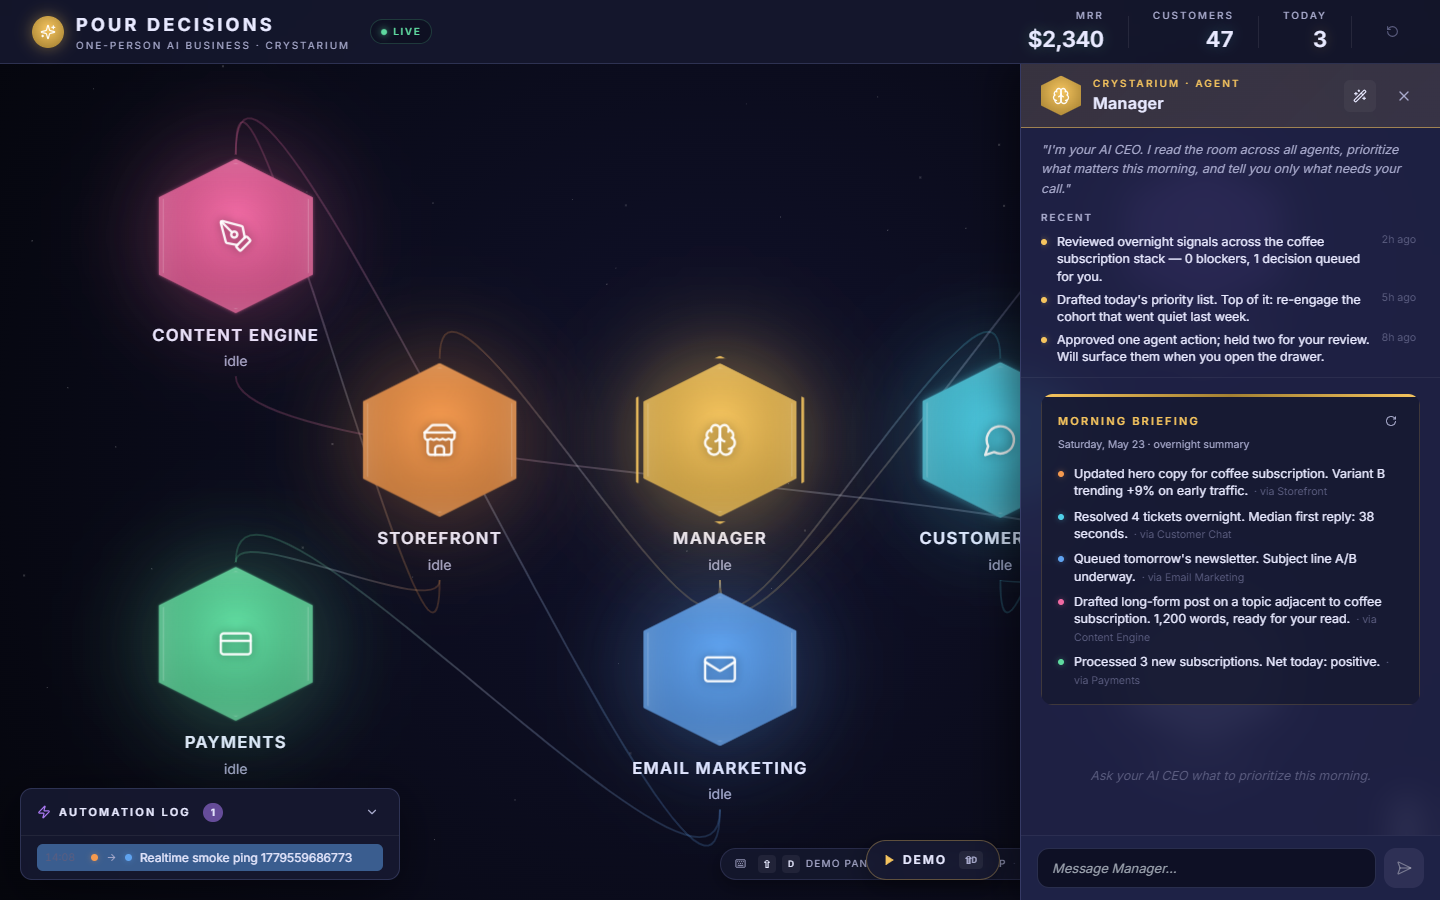
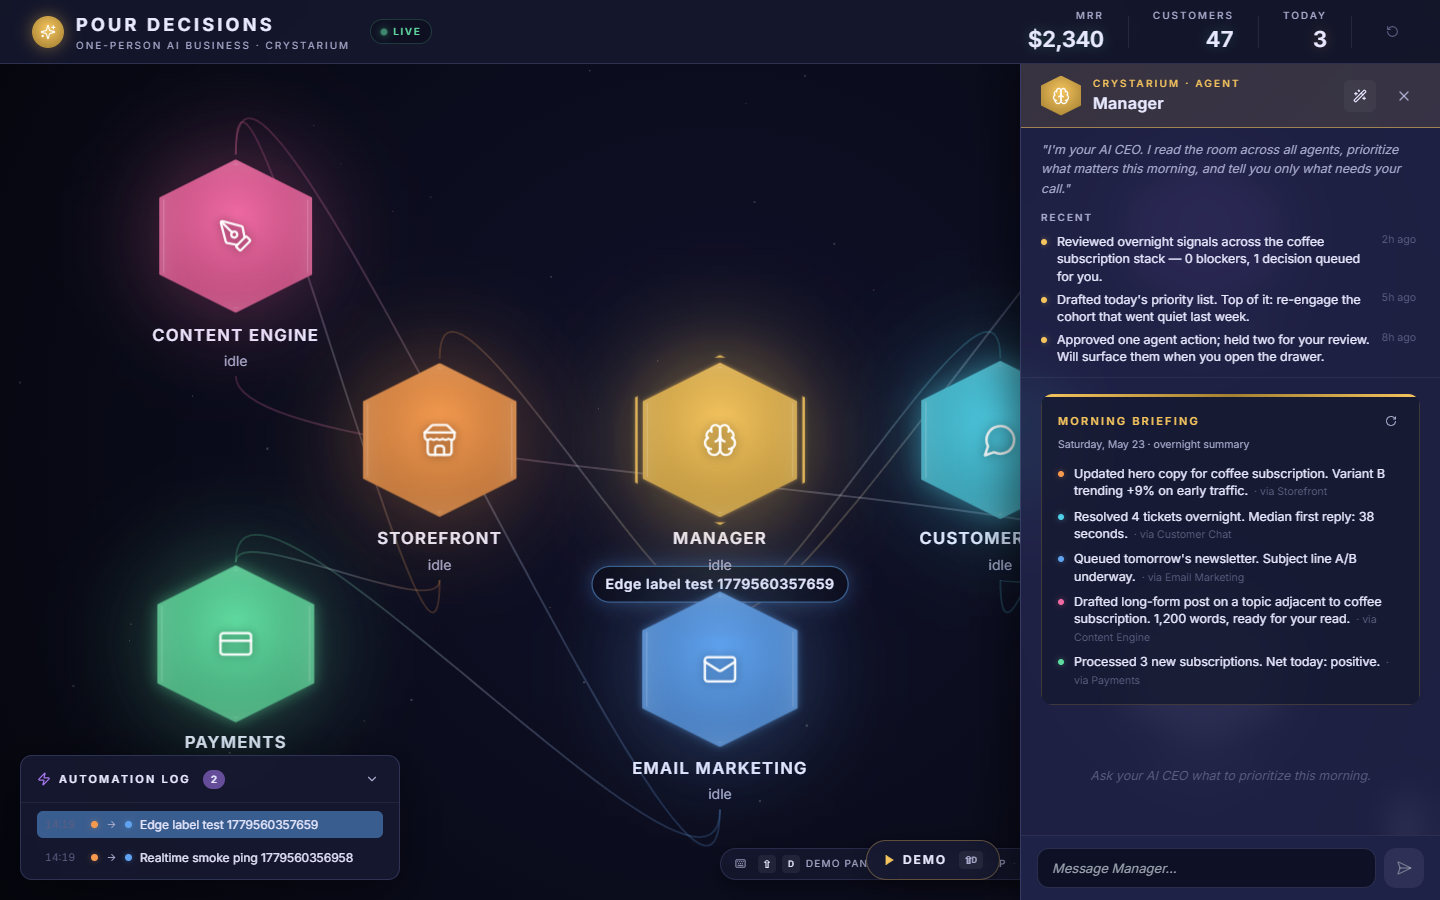
feat: floating edge labels + 2-hop pulse pathfinding
Two related improvements that together turn the magic pulse into a narrative the audience can read:

1. Edge labels via React Flow's EdgeLabelRenderer
   - When an edge is pulsing, the automation label floats as a pill at the
     edge midpoint
   - Styled with the target node's role color glow + backdrop-blur for
     legibility over the dark cosmic background
   - Auto-clears when the pulse ends (no separate fade-out machinery)

2. 2-hop pulse pathfinding in fireAutomation
   - Many automation flows reference nodes without a direct edge (e.g.
     storefront → email when both go through the Manager).
   - Before this commit those events logged silently — no visible pulse.
   - Now: if no direct edge connects from → to, search for an intermediate
     node where from → mid → to is reachable. Pulse the first leg with the
     label for 1.4s, then the second leg (also labeled) 700ms later.
   - Visual effect: the signal *travels through the system* — storefront's
     pulse hits Manager (carrying the label), then Manager's pulse hits
     Email. Reads as the AI CEO routing the work, which is exactly what
     the Crystarium metaphor promises.

Verified via scripts/realtime-smoke.mjs against the live Supabase project:
inserted automation_events row → edge label found visible in the DOM → pulse
animation captured in scripts/smoke-edge-label.png (Storefront → Manager edge
pulsing with the label floating above it).

diff --git a/src/store/index.ts b/src/store/index.ts
@@ -34,6 +34,8 @@ interface CrystariumState {
   bootSeen: boolean
   onboarded: boolean
   pulsingEdgeId: string | null
+  /** Label of the currently pulsing edge — surfaced as a floating tag near the edge midpoint. */
+  pulsingEdgeLabel: string | null
   /** Per-node in-flight streaming text. Not persisted. ChatThread renders this as the typing bubble. */
   streamingByNodeId: Record<string, string>
   /** Supabase Realtime connection state. Shown as the LIVE/LOCAL pill in the header. */
@@ -68,6 +70,7 @@ const initialState: Pick<
   | 'bootSeen'
   | 'onboarded'
   | 'pulsingEdgeId'
+  | 'pulsingEdgeLabel'
   | 'streamingByNodeId'
   | 'realtimeStatus'
 > = {
@@ -81,6 +84,7 @@ const initialState: Pick<
   bootSeen: false,
   onboarded: false,
   pulsingEdgeId: null,
+  pulsingEdgeLabel: null,
   streamingByNodeId: {},
   realtimeStatus: 'idle',
 }
@@ -132,21 +136,51 @@ export const useCrystariumStore = create<CrystariumState>()(
 
       fireAutomation: (fromNodeId, toNodeId, label) => {
         const { edges, logAutomation } = get()
-        const edge = edges.find(
-          (e) =>
-            (e.source === fromNodeId && e.target === toNodeId) ||
-            (e.source === toNodeId && e.target === fromNodeId),
-        )
         logAutomation({ fromNodeId, toNodeId, label })
-        if (edge) {
-          set({ pulsingEdgeId: edge.id })
+
+        // helper: find an edge that connects two nodes (either direction)
+        const connects = (
+          a: string,
+          b: string,
+        ): EdgeData | undefined =>
+          edges.find(
+            (e) =>
+              (e.source === a && e.target === b) ||
+              (e.source === b && e.target === a),
+          )
+
+        // helper: pulse one edge with the given label for `durationMs`
+        const pulse = (edgeId: string, lbl: string, durationMs = 1500) => {
+          set({ pulsingEdgeId: edgeId, pulsingEdgeLabel: lbl })
           setTimeout(() => {
-            // Only clear if it's still the same pulse
-            if (get().pulsingEdgeId === edge.id) {
-              set({ pulsingEdgeId: null })
+            if (get().pulsingEdgeId === edgeId) {
+              set({ pulsingEdgeId: null, pulsingEdgeLabel: null })
             }
-          }, 1600)
+          }, durationMs)
         }
+
+        // Try direct edge first
+        const direct = connects(fromNodeId, toNodeId)
+        if (direct) {
+          pulse(direct.id, label)
+          return
+        }
+
+        // 2-hop pathfinding: find any node that bridges from → mid → to
+        const { nodes } = get()
+        for (const mid of nodes) {
+          if (mid.id === fromNodeId || mid.id === toNodeId) continue
+          const a = connects(fromNodeId, mid.id)
+          const b = connects(mid.id, toNodeId)
+          if (a && b) {
+            // First hop carries the label; second hop continues silently
+            // (label stays on the chain via the active leg)
+            pulse(a.id, label, 1400)
+            setTimeout(() => pulse(b.id, label, 1300), 700)
+            return
+          }
+        }
+        // No path — log row already added; no visible pulse.
       },
 
       appendStreamChunk: (nodeId, chunk) =>
@@ -351,6 +385,7 @@ export const useCrystariumStore = create<CrystariumState>()(
 )
 
 export const usePulsingEdgeId = () => useCrystariumStore((s) => s.pulsingEdgeId)
+export const usePulsingEdgeLabel = () => useCrystariumStore((s) => s.pulsingEdgeLabel)
 export const useOnboarded = () => useCrystariumStore((s) => s.onboarded)
 export const useStreamingText = (nodeId: string | null) =>
   useCrystariumStore((s) =>

diff --git a/src/components/edges/CrystalEdge.tsx b/src/components/edges/CrystalEdge.tsx
@@ -1,6 +1,7 @@
 import { memo } from 'react'
 import {
   BaseEdge,
+  EdgeLabelRenderer,
   getBezierPath,
   type EdgeProps,
 } from 'reactflow'
@@ -11,6 +12,8 @@ export interface CrystalEdgeData {
   sourceRole: NodeRole
   targetRole: NodeRole
   pulse?: boolean
+  /** Set only on the actively-pulsing edge — surfaced as a floating tag at the midpoint. */
+  label?: string
 }
 
 function CrystalEdgeImpl({
@@ -23,7 +26,7 @@ function CrystalEdgeImpl({
   targetPosition,
   data,
 }: EdgeProps<CrystalEdgeData>) {
-  const [path] = getBezierPath({
+  const [path, labelX, labelY] = getBezierPath({
     sourceX,
     sourceY,
     targetX,
@@ -101,6 +104,34 @@ function CrystalEdgeImpl({
           strokeWidth={3}
           style={{ mixBlendMode: 'screen' }}
         />
+      )}
+      {pulse && data?.label && (
+        <EdgeLabelRenderer>
+          <div
+            className="edge-pulse-label"
+            style={{
+              position: 'absolute',
+              transform: `translate(-50%, -50%) translate(${labelX}px, ${labelY}px)`,
+              pointerEvents: 'none',
+              padding: '5px 10px',
+              borderRadius: 999,
+              background: 'rgba(10,11,26,0.92)',
+              border: `1px solid ${targetColor}88`,
+              boxShadow: `0 0 16px ${targetColor}55`,
+              color: '#e8e9ff',
+              fontSize: 11,
+              fontWeight: 600,
+              letterSpacing: '0.04em',
+              whiteSpace: 'nowrap',
+              maxWidth: 260,
+              overflow: 'hidden',
+              textOverflow: 'ellipsis',
+              backdropFilter: 'blur(6px)',
+            }}
+          >
+            {data.label}
+          </div>
+        </EdgeLabelRenderer>
       )}
     </>
   )

diff --git a/src/components/Crystarium.tsx b/src/components/Crystarium.tsx
@@ -17,6 +17,7 @@ import {
   useEdges,
   useNodes,
   usePulsingEdgeId,
+  usePulsingEdgeLabel,
   useSelectedNodeId,
 } from '../store'
 
@@ -28,6 +29,7 @@ export function Crystarium() {
   const storeEdges = useEdges()
   const selectedNodeId = useSelectedNodeId()
   const pulsingEdgeId = usePulsingEdgeId()
+  const pulsingEdgeLabel = usePulsingEdgeLabel()
   const setSelectedNodeId = useCrystariumStore((s) => s.setSelectedNodeId)
 
   const rfNodes = useMemo<Node<CrystalNodeData>[]>(
@@ -56,6 +58,7 @@ export function Crystarium() {
     return storeEdges.map((e) => {
       const sourceRole = roleById.get(e.source) ?? 'manager'
       const targetRole = roleById.get(e.target) ?? 'manager'
+      const isPulsing = e.id === pulsingEdgeId
       return {
         id: e.id,
         source: e.source,
@@ -64,11 +67,12 @@ export function Crystarium() {
         data: {
           sourceRole,
           targetRole,
-          pulse: e.id === pulsingEdgeId,
+          pulse: isPulsing,
+          label: isPulsing ? pulsingEdgeLabel ?? undefined : undefined,
         },
       }
     })
-  }, [storeEdges, storeNodes, pulsingEdgeId])
+  }, [storeEdges, storeNodes, pulsingEdgeId, pulsingEdgeLabel])
 
   const handleNodeClick: NodeMouseHandler = useCallback(
     (_evt, node) => {

diff --git a/src/index.css b/src/index.css
@@ -81,6 +81,8 @@ body {
   50% { opacity: 0.55; transform: scale(1.18); }
 }
 
+/* Edge label fade is animated via Framer Motion in CrystalEdge.tsx; no CSS keyframe here. */
+
 @media (prefers-reduced-motion: reduce) {
   * {
     animation-duration: 0.001ms !important;